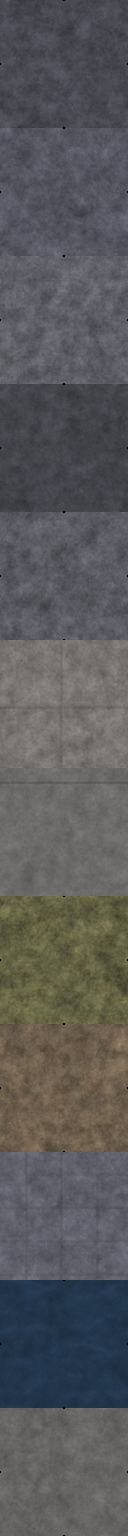
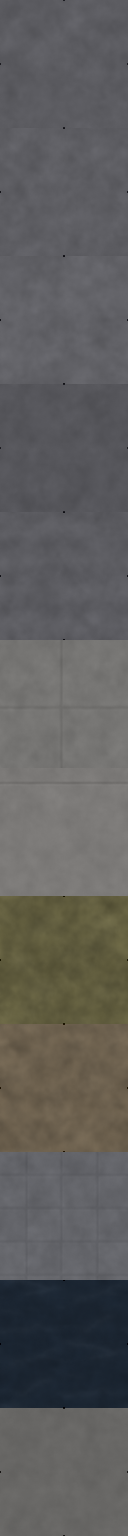
Open World: flush coping lip with dark front band (no step), calmer textures (less mottling, neutral levels matched to Spider Fuser), darker water, less warm light

diff --git a/src/world/citylite.js b/src/world/citylite.js
@@ -107,7 +107,7 @@ export async function buildCity({ scene, renderer }) {
   const SWIM_Y = -5.2, SEABED = SWIM_Y - 2.4; // water surface (was -1.6, -2.6, -3.4; lowered like Spider Fuser's far-below ocean) and the sea floor the shore slopes down to
   const SLOPE_RUN = 0.6; // shore slope: metres of run per metre of drop (0.6 = ~60 degrees, a steep stone embankment like Spider Fuser's)
   const waterU = { uWT: { value: 0 } };
-  const matWater = new THREE.MeshStandardMaterial({ color: 0x172737, roughness: 0.45, metalness: 0, envMapIntensity: 0.3 }); // deep dull navy like Spider Fuser (sky reflection was making it bright blue)
+  const matWater = new THREE.MeshStandardMaterial({ color: 0x121c26, roughness: 0.45, metalness: 0, envMapIntensity: 0.3 }); // deep dull navy like Spider Fuser (sky reflection was making it bright blue)
   matWater.onBeforeCompile = (sh) => {
     sh.uniforms.uWT = waterU.uWT; if (skin) sh.uniforms.uGT = { value: skin.ground.tex };
     sh.vertexShader = sh.vertexShader.replace('#include <common>', '#include <common>\nvarying vec3 vWPos;')
@@ -293,27 +293,33 @@ export async function buildCity({ scene, renderer }) {
   };
   wallLines('kerb', 0, CH, LY.KERB, 6);
 
-  // ---- edge strip along the sea wall (Spider Fuser look): just a flat, slightly darker concrete band painted on the walk a little
-  // in from the edge, like the groove / coping line at the top of Spider Fuser's wall. No height, no collision change.
-  const STRIP_A = 0.35, STRIP_B = 0.95;
+  // ---- coping lip along the sea wall (Spider Fuser style): FLUSH with the sidewalk (no step up), a band of lighter slab concrete along
+  // the edge that overhangs the slope a little, with a dark band on its front face that runs down to meet the slope. Collision stays
+  // flat over it (terrainHeight), so nothing to trip on and no floating.
+  const LIP_IN = 1.0, LIP_OUT = 0.3;
   const slabLines = (key) => {
     const [pb, lens] = LINES[key]; if (!lens.length) return;
-    const P = i16(pb), gb = new GB(); let o = 0; const y = CH + 0.012;
+    const P = i16(pb), gb = new GB(); let o = 0; const yT = CH + 0.02, yB = CH - LIP_OUT / SLOPE_RUN;
+    const emit = (pts, N, uvs, layer) => {
+      const a = pts[0], b = pts[1], c = pts[2], ux = b[0] - a[0], uy = b[1] - a[1], uz = b[2] - a[2], vx = c[0] - a[0], vy = c[1] - a[1], vz = c[2] - a[2];
+      const d = (uy * vz - uz * vy) * N[0] + (uz * vx - ux * vz) * N[1] + (ux * vy - uy * vx) * N[2];
+      for (const i of d >= 0 ? [0, 1, 2, 0, 2, 3] : [0, 2, 1, 0, 3, 2]) { const q = pts[i]; gb.p.push(q[0], q[1], q[2]); gb.n.push(N[0], N[1], N[2]); if (TEX) { gb.u.push(layer, 0); gb.c.push(uvs[i][0], uvs[i][1], 0); } else { gb.u.push(99, 0); gb.c.push(C.lot[0], C.lot[1], C.lot[2]); } }
+    };
     for (const n of lens) {
       const v = [];
       for (let k = 0; k < n; k++) { const x = P[2 * (o + k)] / 16, z = P[2 * (o + k) + 1] / 16, l = v[v.length - 1]; if (!l) v.push([x, z, 0]); else { const L = Math.hypot(x - l[0], z - l[1]); if (L >= 0.05) v.push([x, z, l[2] + L]); } }
       o += n; if (v.length < 2) continue;
       const sn = []; for (let k = 0; k < v.length - 1; k++) { const dx = v[k + 1][0] - v[k][0], dz = v[k + 1][1] - v[k][1], L = Math.hypot(dx, dz); sn.push([dz / L, -dx / L]); }
       const mi = v.map((_, k) => { const a = sn[Math.max(0, k - 1)], b = sn[Math.min(sn.length - 1, k)]; let mx = a[0] + b[0], mz = a[1] + b[1]; const l = Math.hypot(mx, mz) || 1; mx /= l; mz /= l; const c = Math.max(0.4, mx * b[0] + mz * b[1]); return [mx / c, mz / c]; });
-      const at = (k, d) => [v[k][0] + mi[k][0] * d, y, v[k][1] + mi[k][1] * d];
+      const at = (k, d, y) => [v[k][0] + mi[k][0] * d, y, v[k][1] + mi[k][1] * d];
       for (let k = 0; k < v.length - 1; k++) {
-        const P4 = [at(k, -STRIP_B), at(k + 1, -STRIP_B), at(k + 1, -STRIP_A), at(k, -STRIP_A)], U4 = [[v[k][2] / 6, 0], [v[k + 1][2] / 6, 0], [v[k + 1][2] / 6, 0.1], [v[k][2] / 6, 0.1]];
-        const a = P4[0], b = P4[1], c = P4[2], d = (b[1] - a[1]) * (c[2] - a[2]) - (b[2] - a[2]) * (c[1] - a[1]), e2 = (b[2] - a[2]) * (c[0] - a[0]) - (b[0] - a[0]) * (c[2] - a[2]), f = (b[0] - a[0]) * (c[1] - a[1]) - (b[1] - a[1]) * (c[0] - a[0]);
-        for (const i of e2 >= 0 ? [0, 1, 2, 0, 2, 3] : [0, 2, 1, 0, 3, 2]) { const q = P4[i]; gb.p.push(q[0], q[1], q[2]); gb.n.push(0, 1, 0); if (TEX) { gb.u.push(LY.CONC, 0); gb.c.push(U4[i][0], U4[i][1], 0); } else { gb.u.push(99, 0); gb.c.push(C.lot[0], C.lot[1], C.lot[2]); } }
+        const A = k, B = k + 1, sa = v[A][2] / 6, sb = v[B][2] / 6, nn = [sn[k][0], 0, sn[k][1]];
+        emit([at(A, -LIP_IN, yT), at(B, -LIP_IN, yT), at(B, LIP_OUT, yT), at(A, LIP_OUT, yT)], [0, 1, 0], [[sa, -LIP_IN / 6], [sb, -LIP_IN / 6], [sb, LIP_OUT / 6], [sa, LIP_OUT / 6]], LY.CONC);
+        emit([at(A, LIP_OUT, yT), at(B, LIP_OUT, yT), at(B, LIP_OUT, yB), at(A, LIP_OUT, yB)], nn, [[sa, 0], [sb, 0], [sb, 0.2], [sa, 0.2]], LY.ASPH);
       }
     }
     if (gb.empty) return;
-    const m = new THREE.Mesh(gb.build(), matPaint); m.receiveShadow = true; m.name = 'edgestrip-' + key; root.add(m);
+    const m = new THREE.Mesh(gb.build(), matGround); m.receiveShadow = true; m.name = 'lip-' + key; root.add(m);
   };
 
   // no lane markings: the reference game uses plain asphalt (MARKS in openlayout.js still has the straight bands if they come back)
@@ -519,7 +525,7 @@ export async function buildCity({ scene, renderer }) {
     if (c < 0) { const e = x < X0 ? EXITS.W : EXITS.E; if (Math.abs(x) >= 2600) return SEABED; const dz = Math.abs(z - e.z) - e.half; return dz < 0 ? 0 : slopeH(0, dz); }
     if (c >= CLS.AV && c <= CLS.INT) return 0;
     if (c !== CLS.OUT) return c === CLS.PARK ? parkTop(x, z) : CH;
-    return slopeH(CH, seaDist(x, z));
+    const sd = seaDist(x, z); return sd < LIP_OUT ? CH : slopeH(CH, sd); // flat under the lip overhang
   };
   const grid = new CollisionGrid(solids, 24);
   const finZ = zips.finalize(grid);

diff --git a/src/render/lighting.js b/src/render/lighting.js
@@ -100,7 +100,7 @@ export const DAY_SUNS = { a: 'day', b: 'dayB', c: 'dayC' };
 // (open map) Spider Fuser look for the Open World map: soft, flat, hazy daylight. Much more sky/bounce fill and a gentler key than the
 // Manhattan 'day' (shade only slightly darker than lit ground, soft low-contrast shadows), a touch desaturated, cool haze.
 // sf / sfB / sfC replace day / dayB / dayC on the open map only (see resolvePreset); they are not listed in lighting.presets.
-const SF_LOOK = { vertFill: 0.85, vertBounce: 0.55, warm: 0.1, env: 1.75, envSpec: 0.55, envSat: 0.55, sun: 1.05, exposure: 0.92, clouds: 0.6, fog: 1.25, mie: 0.6, bounce: 0.6, groundBounce: 1.0, glow: 0.1, fogTint: [0.74, 0.8, 0.9] };
+const SF_LOOK = { vertFill: 0.85, vertBounce: 0.55, warm: 0.03, env: 1.75, envSpec: 0.55, envSat: 0.55, sun: 1.05, exposure: 0.92, clouds: 0.6, fog: 1.25, mie: 0.6, bounce: 0.6, groundBounce: 1.0, glow: 0.1, fogTint: [0.74, 0.8, 0.9] };
 PRESETS.sf = { elevation: 58, azimuth: 118, look: { ...SF_LOOK } };
 PRESETS.sfB = { elevation: 50, azimuth: 58, look: { ...SF_LOOK } };
 PRESETS.sfC = { elevation: 44, azimuth: 160, look: { ...SF_LOOK } };

diff --git a/src/world/openskin.js b/src/world/openskin.js
@@ -55,14 +55,14 @@ export function skinGround(mat, skin) {
       float sl = smoothstep(0.9985, 0.991, vUpN);
       if (sl > 0.0) tc = mix(tc, texture(uGT, vec3(vColor.xy * 0.83 + 0.31, 8.0)).rgb, sl);
     }
-    if (L < 9.5 || L > 10.5) { // soft low-res photo-like mottling (not on water); +-14 % over ~10-40 m
-      float mv = vn(vColor.xy * 0.37) * 0.5 + vn(vColor.xy * 1.1 + 7.3) * 0.3 + vn(vColor.xy * 3.3 + 3.1) * 0.2;
-      tc *= 0.86 + 0.28 * mv;
+    if (L < 9.5 || L > 10.5) { // soft low-res photo-like mottling (not on water); +-5 % over ~10-40 m
+      float mv = vn(vColor.xy * 0.37) * 0.65 + vn(vColor.xy * 1.1 + 7.3) * 0.35;
+      tc *= 0.95 + 0.10 * mv;
     }
     diffuseColor.rgb = tc;
   }`);
   };
-  mat.customProgramCacheKey = () => 'openSkinGround4';
+  mat.customProgramCacheKey = () => 'openSkinGround5';
 }
 
 // roofs: every upward-facing face of the facade / glass materials; one of 4 roof types per 48 m cell
